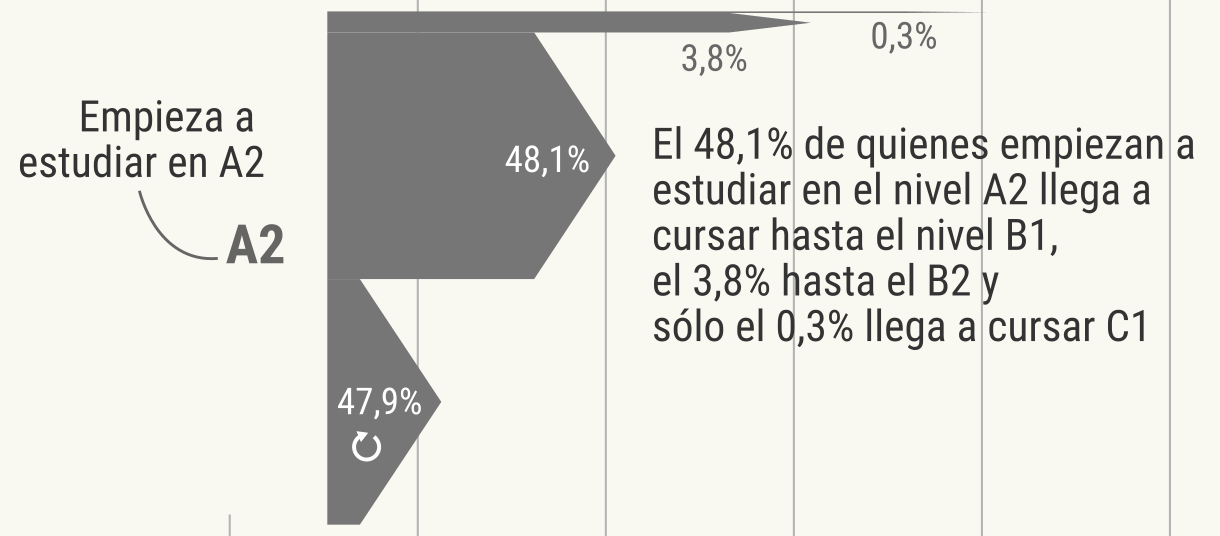
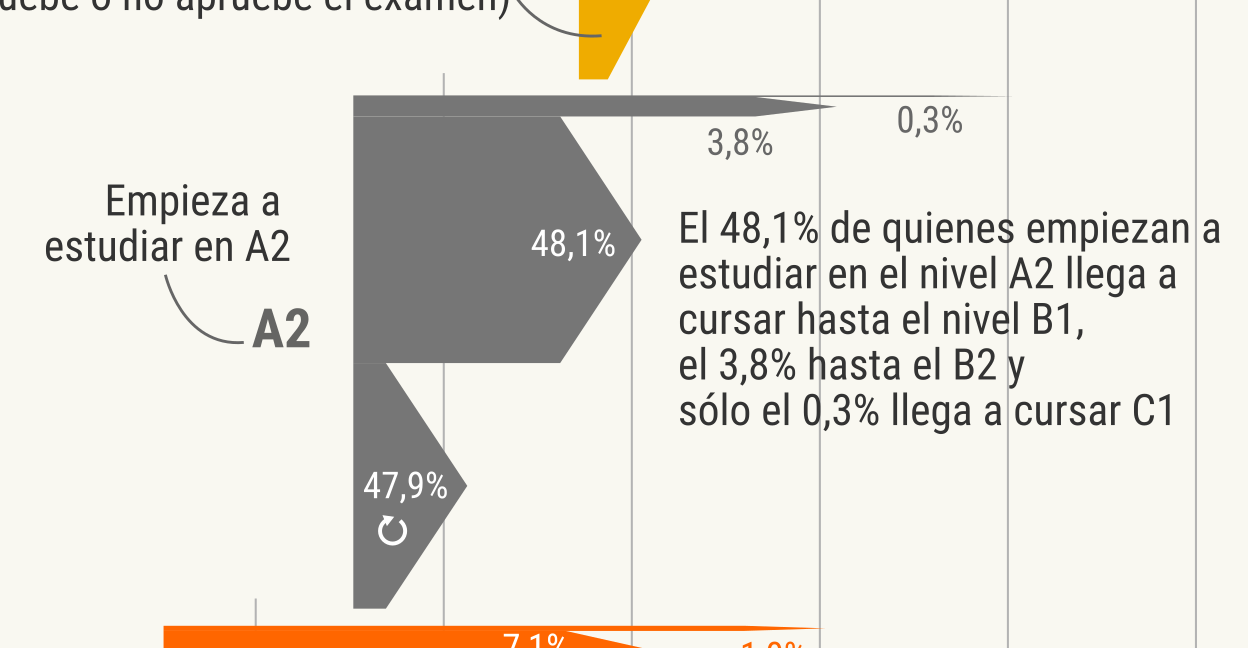
tabla horas en Eus y recorte marcando en recortadas

Changed region(s): [[0.0, 0.0, 0.9967, 1.0]]

diff --git a/README.md b/README.md
@@ -38,7 +38,10 @@
 
 Azalpena: Euskadin bizi den eta euskara ikasi nahi duen pertsona orok (gaur egun 35.000 ikasle urtero) horretarako aukera ekonomikoa izatea, udal bakoitzak eskaintzen dituen aukeren eta baliabideen araberakoa izan beharrean. Hau da, HABEren esparru komun bat izatea, ikastaro horiek hezkuntza orokorraren antzeko baldintzetan modu eskuragarrian egitea erraztuko duena.
 
-<a href="img/aprendizaje_euskltegis_habe_2009-2019_eus.png" target="_blank"><img src="img/aprendizaje_euskltegis_habe_2009-2019_eus.png" alt="Euskararen ikaskuntzaren errealitatea euskaltegietan: HABEn egindako hasiera eta bukaera maila ikasle bakoitzeko 2009/2019 aldi osoan" style="width:35%;"></a>
+<figure>
+<a href="img/aprendizaje_euskltegis_habe_2009-2019_eus.png" target="_blank"><img src="img/aprendizaje_euskltegis_habe_2009-2019_eus_r.png" alt="Euskararen ikaskuntzaren errealitatea euskaltegietan: HABEn egindako hasiera eta bukaera maila ikasle bakoitzeko 2009/2019 aldi osoan" style="width:50%;"></a>
+<figcaption>Euskararen ikaskuntzaren errealitatea euskaltegietan: HABEn egindako hasiera eta bukaera maila ikasle bakoitzeko 2009/2019 aldi osoanñ <a href="img/aprendizaje_euskltegis_habe_2009-2019_eus.png">Sakatu tamaina osoan ikusteko</a>.</figcaption>
+</figure> 
 
 ##### A.II.- Liberazioak (denboraren oztopoa)
 
@@ -46,7 +49,10 @@ Azalpena: Euskadin bizi den eta euskara ikasi nahi duen pertsona orok (gaur egun
 
 Azalpena: Matrikularen zenbatekoa baldintzagarria den bezala euskara ikasteko orduan, denbora izatea ere baldintzagarria da, batez ere lanean ari direnentzat. Ordaindutako enpleguaren orduei etxeko laneko, zaintzako eta aisialdiko orduak gehitzen zaizkie, eta pertsona askori ordutegi tarte txikia uzten zaie euskaltegietara eta HEOetara joan ahal izateko. Gainera, banakako lan asko egin behar da etxean, ikaskuntzan aurrera egin ahal izateko.
 
-
+<figure>
+<a href="img/tabla_horas_eus.jpeg" target="_blank"><img src="img/tabla_horas_eus_r.png" title="FALTA TÍTULO" style="width:50%;"></a>
+<figcaption><!--Falta título a esta imagen--> <a href="img/tabla_horas_eus.jpeg">Sakatu tamaina osoan ikusteko</a>.</figcaption>
+</figure> 
 
 #### B.- Ezagutza egiaztatzeko sistema berriak, makro-errebaliden monopolioa gaindituz
 
